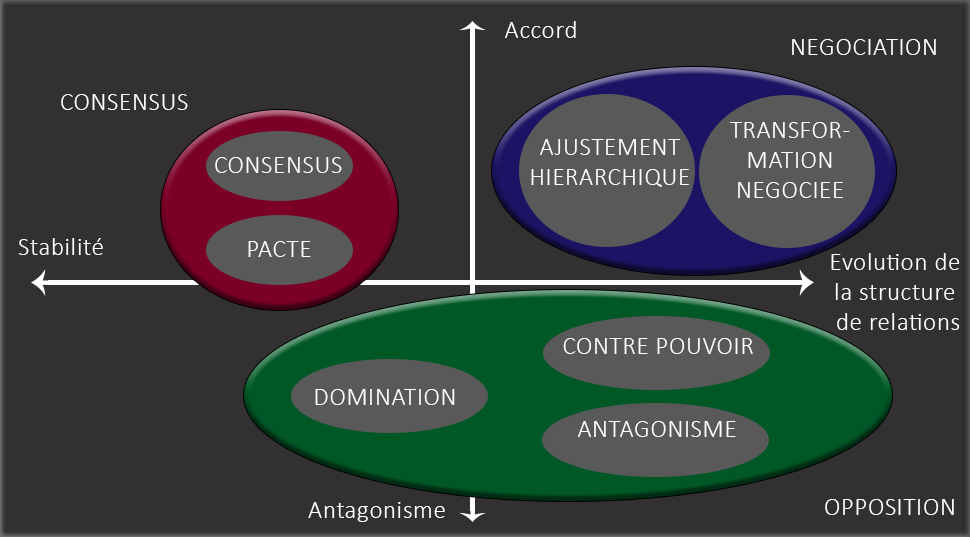
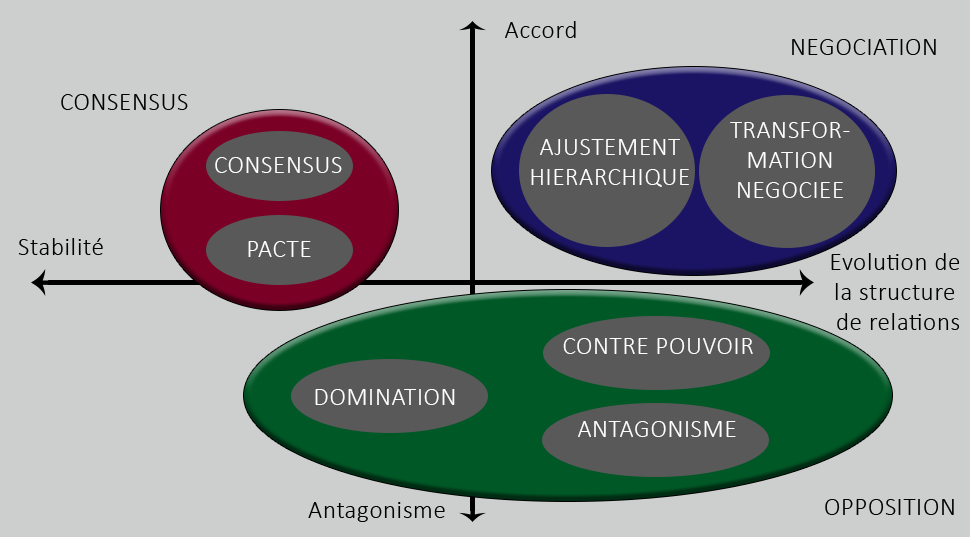
Modifications

diff --git a/src/graphic_interface/ImagesApercu.java b/src/graphic_interface/ImagesApercu.java
@@ -1012,7 +1012,7 @@ public class ImagesApercu extends Conteneur{
 			Image fond=Images.importerImage("themes"+File.separator+FenetreAccueil.theme.getNom()+File.separator+"Apercu"+File.separator+"Schema2"+File.separator+"Etude_2_fond.png");
 			g.drawImage(Images.scaleImage(fond,1920, 1080),0,0,null);
 			Image repos=Images.importerImage("themes"+File.separator+FenetreAccueil.theme.getNom()+File.separator+"Apercu"+File.separator+"Schema2"+File.separator+"Etude_2_repos.png");
-			Image secondaire=null;
+			Image secondaire=Images.importerImage("themes"+File.separator+FenetreAccueil.theme.getNom()+File.separator+"Apercu"+File.separator+"Schema2"+File.separator+"Etude_2_secondaire.png");
 			Image actif=Images.importerImage("themes"+File.separator+FenetreAccueil.theme.getNom()+File.separator+"Apercu"+File.separator+"Schema2"+File.separator+"Etude_2_actif.png");
 			int width=(int) ConteneurSchema.DIMENSION_BOUTON_SCHEMAS23.getWidth();
 			int height=(int) ConteneurSchema.DIMENSION_BOUTON_SCHEMAS23.getHeight();
@@ -1217,7 +1217,7 @@ public class ImagesApercu extends Conteneur{
 			Image fond=Images.importerImage("themes"+File.separator+FenetreAccueil.theme.getNom()+File.separator+"Apercu"+File.separator+"Schema3"+File.separator+"Etude_3_fond.png");
 			g.drawImage(Images.scaleImage(fond,1920, 1080),0,0,null);
 			Image repos=Images.importerImage("themes"+File.separator+FenetreAccueil.theme.getNom()+File.separator+"Apercu"+File.separator+"Schema3"+File.separator+"Etude_3_repos.png");
-			Image secondaire=null;
+			Image secondaire=Images.importerImage("themes"+File.separator+FenetreAccueil.theme.getNom()+File.separator+"Apercu"+File.separator+"Schema3"+File.separator+"Etude_3_secondaire.png");
 			Image actif=Images.importerImage("themes"+File.separator+FenetreAccueil.theme.getNom()+File.separator+"Apercu"+File.separator+"Schema3"+File.separator+"Etude_3_actif.png");
 			int width=(int) ConteneurSchema.DIMENSION_BOUTON_SCHEMAS23.getWidth();
 			int height=(int) ConteneurSchema.DIMENSION_BOUTON_SCHEMAS23.getHeight();
@@ -1987,7 +1987,7 @@ public class ImagesApercu extends Conteneur{
 			Image fond=Images.importerImage("themes"+File.separator+FenetreAccueil.theme.getNom()+File.separator+"Apercu"+File.separator+"Schema6"+File.separator+"Etude_6_fond.png");
 			g.drawImage(Images.scaleImage(fond,1920, 1080),0,0,null);
 			Image repos=Images.importerImage("themes"+File.separator+FenetreAccueil.theme.getNom()+File.separator+"Apercu"+File.separator+"Schema6"+File.separator+"Etude_6_repos.png");
-			Image secondaire=null;
+			Image secondaire=Images.importerImage("themes"+File.separator+FenetreAccueil.theme.getNom()+File.separator+"Apercu"+File.separator+"Schema6"+File.separator+"Etude_6_secondaire.png");
 			Image actif=Images.importerImage("themes"+File.separator+FenetreAccueil.theme.getNom()+File.separator+"Apercu"+File.separator+"Schema6"+File.separator+"Etude_6_actif.png");
 			int width=(int) ConteneurSchema.DIMENSION_BOUTON_SCHEMA6.getWidth();
 			int height=(int) ConteneurSchema.DIMENSION_BOUTON_SCHEMA6.getHeight();
@@ -2255,7 +2255,7 @@ public class ImagesApercu extends Conteneur{
 		}else if(this.getPeriode()==18){
 			Image fond=Images.importerImage("themes"+File.separator+FenetreAccueil.theme.getNom()+File.separator+"fondppt.png");
 			g.drawImage(Images.scaleImage(fond,1920, 1080),0,0,null);
-			this.drawMainTitle(g, ConteneurNouvelleEtude.nom, 0, 0, 1920, 1080, Color.white);
+			this.drawMainTitle(g, ConteneurNouvelleEtude.nom, 0, 0, 1920, 1080, Color.black);
 			
 		}
 	}

diff --git a/src/graphic_interface/ConteneurSchema.java b/src/graphic_interface/ConteneurSchema.java
@@ -1659,7 +1659,7 @@ public class ConteneurSchema extends ConteneurAvecImage {
 
 	public void initialiserLabelSchema2(JLabel label)
 	{
-		label.setForeground(Color.WHITE);
+		label.setForeground(Color.BLACK);
 		label.setPreferredSize(DIMENSION_LABEL_SCHEMA2);
 		label.setMaximumSize(DIMENSION_LABEL_SCHEMA2);
 		label.setMinimumSize(DIMENSION_LABEL_SCHEMA2);
@@ -1667,7 +1667,7 @@ public class ConteneurSchema extends ConteneurAvecImage {
 
 	public void initialiserLabelSchema3(JLabel label)
 	{
-		label.setForeground(Color.WHITE);
+		label.setForeground(Color.BLACK);
 		label.setPreferredSize(DIMENSION_LABEL_SCHEMA3);
 		label.setMaximumSize(DIMENSION_LABEL_SCHEMA3);
 		label.setMinimumSize(DIMENSION_LABEL_SCHEMA3);
@@ -1675,7 +1675,7 @@ public class ConteneurSchema extends ConteneurAvecImage {
 
 	public void initialiserLabelSchema6(JLabel label)
 	{
-		label.setForeground(Color.WHITE);
+		label.setForeground(Color.BLACK);
 		label.setPreferredSize(DIMENSION_LABEL_SCHEMA6);
 		label.setMaximumSize(DIMENSION_LABEL_SCHEMA6);
 		label.setMinimumSize(DIMENSION_LABEL_SCHEMA6);

diff --git a/src/graphic_interface/ApercuSchema2.java b/src/graphic_interface/ApercuSchema2.java
@@ -212,7 +212,7 @@ public class ApercuSchema2 extends ConteneurAvecImage{
 		g.setComposite(AlphaComposite.getInstance(AlphaComposite.SRC_OVER, alpha));
 		g.setRenderingHint(RenderingHints.KEY_ANTIALIASING, RenderingHints.VALUE_ANTIALIAS_ON);
 		Image repos=Images.importerImage("themes"+File.separator+FenetreAccueil.theme.getNom()+File.separator+"Apercu"+File.separator+"Schema2"+File.separator+"Etude_2_repos.png");
-		Image secondaire=null;
+		Image secondaire=Images.importerImage("themes"+File.separator+FenetreAccueil.theme.getNom()+File.separator+"Apercu"+File.separator+"Schema2"+File.separator+"Etude_2_secondaire.png");
 		Image actif=Images.importerImage("themes"+File.separator+FenetreAccueil.theme.getNom()+File.separator+"Apercu"+File.separator+"Schema2"+File.separator+"Etude_2_actif.png");
 		int width=(int) ConteneurSchema.DIMENSION_BOUTON_SCHEMAS23.getWidth();
 		int height=(int) ConteneurSchema.DIMENSION_BOUTON_SCHEMAS23.getHeight();

diff --git a/src/graphic_interface/ApercuSchema3.java b/src/graphic_interface/ApercuSchema3.java
@@ -212,7 +212,7 @@ public class ApercuSchema3 extends ConteneurAvecImage{
 		g.setComposite(AlphaComposite.getInstance(AlphaComposite.SRC_OVER, alpha));
 		g.setRenderingHint(RenderingHints.KEY_ANTIALIASING, RenderingHints.VALUE_ANTIALIAS_ON);
 		Image repos=Images.importerImage("themes"+File.separator+FenetreAccueil.theme.getNom()+File.separator+"Apercu"+File.separator+"Schema3"+File.separator+"Etude_3_repos.png");
-		Image secondaire=null;
+		Image secondaire=Images.importerImage("themes"+File.separator+FenetreAccueil.theme.getNom()+File.separator+"Apercu"+File.separator+"Schema3"+File.separator+"Etude_3_secondaire.png");
 		Image actif=Images.importerImage("themes"+File.separator+FenetreAccueil.theme.getNom()+File.separator+"Apercu"+File.separator+"Schema3"+File.separator+"Etude_3_actif.png");
 		int width=(int) ConteneurSchema.DIMENSION_BOUTON_SCHEMAS23.getWidth();
 		int height=(int) ConteneurSchema.DIMENSION_BOUTON_SCHEMAS23.getHeight();

diff --git a/src/graphic_interface/ApercuSchema6.java b/src/graphic_interface/ApercuSchema6.java
@@ -209,7 +209,7 @@ public class ApercuSchema6 extends ConteneurAvecImage{
 		g.setComposite(AlphaComposite.getInstance(AlphaComposite.SRC_OVER, alpha));
 		g.setRenderingHint(RenderingHints.KEY_ANTIALIASING, RenderingHints.VALUE_ANTIALIAS_ON);
 		Image repos=Images.importerImage("themes"+File.separator+FenetreAccueil.theme.getNom()+File.separator+"Apercu"+File.separator+"Schema6"+File.separator+"Etude_6_repos.png");
-		Image secondaire =null;
+		Image secondaire =Images.importerImage("themes"+File.separator+FenetreAccueil.theme.getNom()+File.separator+"Apercu"+File.separator+"Schema6"+File.separator+"Etude_6_secondaire.png");
 		Image actif=Images.importerImage("themes"+File.separator+FenetreAccueil.theme.getNom()+File.separator+"Apercu"+File.separator+"Schema6"+File.separator+"Etude_6_actif.png");
 		int width=(int) ConteneurSchema.DIMENSION_BOUTON_SCHEMA6.getWidth();
 		int height=(int) ConteneurSchema.DIMENSION_BOUTON_SCHEMA6.getHeight();

diff --git a/src/graphic_interface/PresenterEtude.java b/src/graphic_interface/PresenterEtude.java
@@ -104,10 +104,6 @@ public class PresenterEtude implements ActionListener {
 			//slide.removeShape(pic);
 			picture.setAnchor(anchor);
 			
-			Rectangle2D page_anchor=new Rectangle2D.Double(1849, 1022, 71, 58);
-			XSLFTextShape page=slide.getPlaceholder(1);
-			page.setAnchor(page_anchor);
-			page.setText(String.valueOf(i+1));
 		}
 
 
